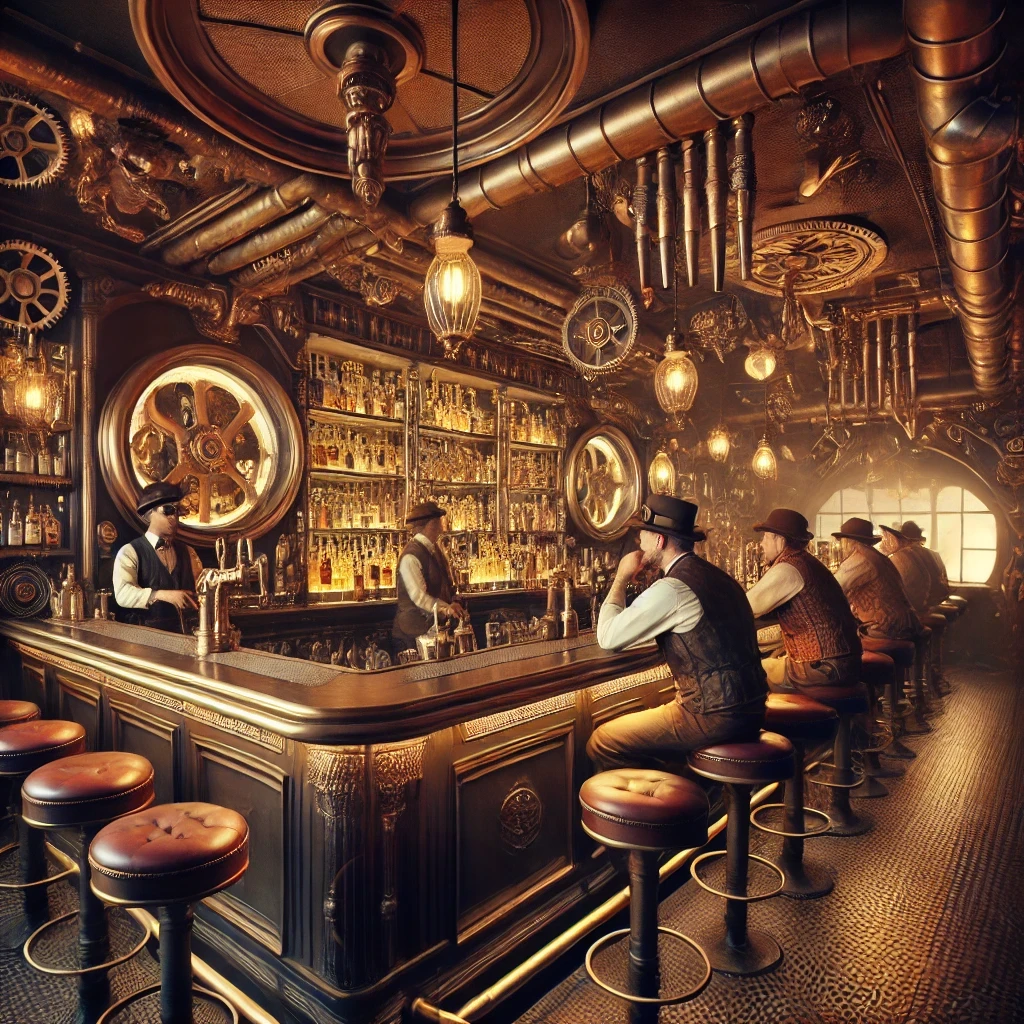
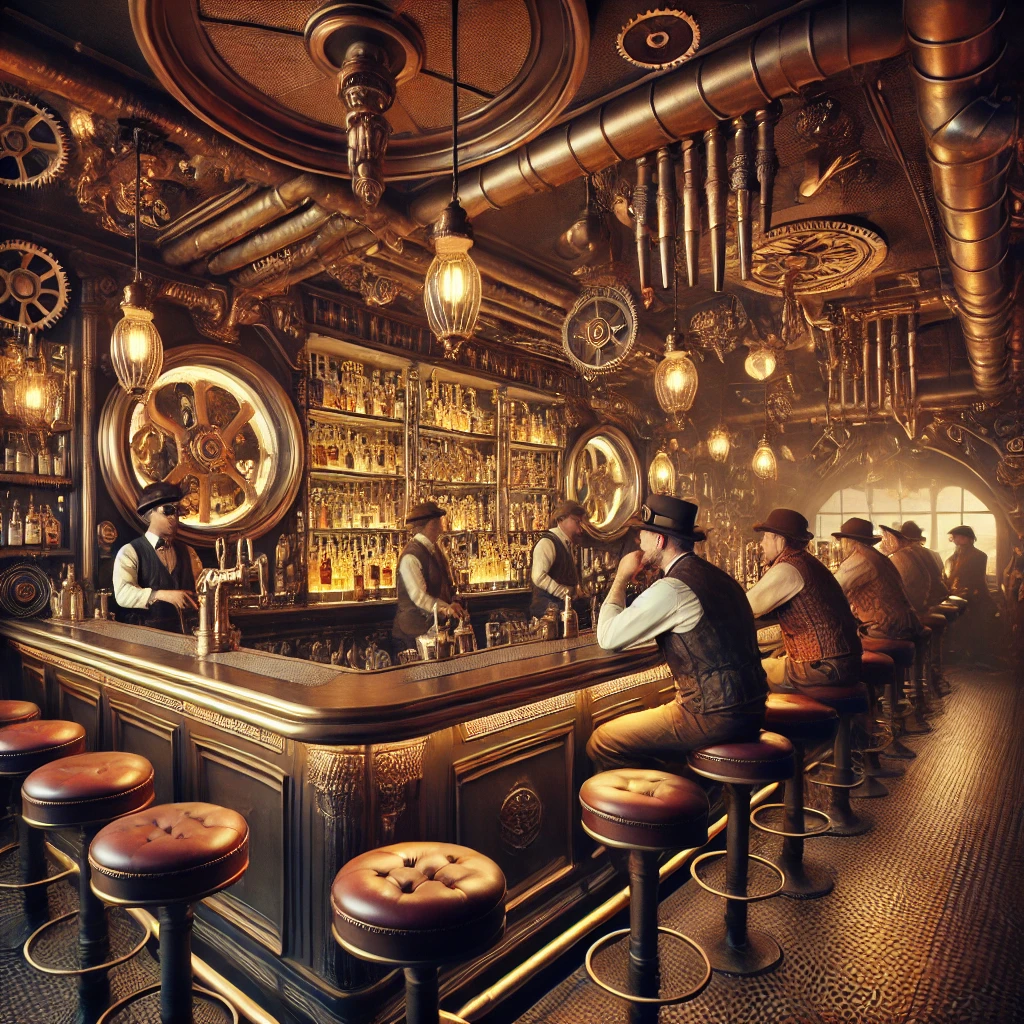
Steampunk: hint logic + Add initial hint logic ~ update config ~ change image

diff --git a/Steampunk/src/game/gameLogic.ts b/Steampunk/src/game/gameLogic.ts
@@ -1,3 +1,4 @@
+import * as utils from '@dcl-sdk/utils'
 import { ColliderLayer, GltfContainer, InputAction, Material, PBGltfContainer, pointerEventsSystem, TextShape, TextureFilterMode, TextureWrapMode, Transform, VisibilityComponent } from "@dcl/sdk/ecs"
 import { correctTargetAmount, data, steampunkGameState } from "../gameState"
 import { steampunkGameConfig } from "../gameConfig"
@@ -7,6 +8,8 @@ export class GameLogic {
     private correctSmashCounter = 0
     private playerLevel = 1
     private pictureNumber = 1
+    private differencesFound: Array<number | undefined> = []
+    private hintTimeOut: utils.TimerId = 0
 
     public async startGame() {
         this.resetProgress()
@@ -15,16 +18,19 @@ export class GameLogic {
 
     private resetProgress() {
         this.playerLevel = 1
+        this.pictureNumber - 1
         this.correctSmashCounter = 0
+        this.differencesFound = []
+        utils.timers.clearInterval(this.hintTimeOut)
     }
 
     private async playGame() {
         this.correctSmashCounter = 0
         const data = await readGltfLocators(`locators/obj_locators_unique1.gltf`)
         Material.setPbrMaterial(steampunkGameState.listOfEntity.get('firstBoard'), { texture: Material.Texture.Common({ src: `images/level${this.playerLevel}_${this.pictureNumber}.png` }) })
-        Material.setPbrMaterial(steampunkGameState.listOfEntity.get('secondBoard'), { texture: Material.Texture.Common({ src: `images/level${this.playerLevel}_${this.pictureNumber}.png` }) })
-
+        Material.setPbrMaterial(steampunkGameState.listOfEntity.get('secondBoard'), { texture: Material.Texture.Common({ src: `images/level${this.playerLevel}_${this.pictureNumber + 1}.png` }) })
         for (let i = 0; i < steampunkGameConfig.targetEntityAmount; i++) {
+            VisibilityComponent.createOrReplace(steampunkGameState.availableEntity[i], { visible: false })
             const path: PBGltfContainer = { src: `models/target${this.playerLevel}_${i + 1}/target${this.playerLevel}_${i + 1}.gltf` };
             GltfContainer.create(steampunkGameState.availableEntity[i], {
                 ...path,
@@ -32,7 +38,6 @@ export class GameLogic {
                 visibleMeshesCollisionMask: ColliderLayer.CL_POINTER
             })
             Transform.createOrReplace(steampunkGameState.availableEntity[i], { ...data.get(`target${this.playerLevel}_${i + 1}`), parent: steampunkGameState.listOfEntity.get('display') })
-            // console.log(GltfContainer.get(steampunkGameState.availableEntity[i]), Transform.get(steampunkGameState.availableEntity[i]))
             pointerEventsSystem.onPointerDown(
                 {
                     entity: steampunkGameState.availableEntity[i],
@@ -41,9 +46,10 @@ export class GameLogic {
                 () => {
                     console.log(i)
                     if (i <= correctTargetAmount[this.playerLevel]) {
+                        utils.timers.clearInterval(this.hintTimeOut)
+                        this.differencesFound[i] = i
                         pointerEventsSystem.removeOnPointerDown(steampunkGameState.availableEntity[i])
                         this.changeCounter()
-                        VisibilityComponent.createOrReplace(steampunkGameState.availableEntity[i], { visible: false })
                     }
                 }
             )
@@ -58,5 +64,26 @@ export class GameLogic {
             this.playerLevel++
             this.playGame()
         }
+    }
+
+    public getHint() {
+        let hintEntityId = undefined
+        for (let i = 0; i < correctTargetAmount[this.playerLevel]; i++) {
+            if (this.differencesFound[i] == undefined) {
+                hintEntityId = i
+                break
+            }
+        }
+        console.log(hintEntityId)
+        if (hintEntityId == undefined) return
+        let hintShowCounter = 0
+        this.hintTimeOut = utils.timers.setInterval(() => {
+            VisibilityComponent.getMutable(steampunkGameState.availableEntity[hintEntityId]).visible = !VisibilityComponent.getMutable(steampunkGameState.availableEntity[hintEntityId]).visible
+            hintShowCounter++
+            if (hintShowCounter >= steampunkGameConfig.hintShowTimes * 2) {
+                VisibilityComponent.getMutable(steampunkGameState.availableEntity[hintEntityId]).visible = false
+                utils.timers.clearInterval(this.hintTimeOut)
+            }
+        }, steampunkGameConfig.hintDelay)
     }
 }

diff --git a/Steampunk/src/game/game.ts b/Steampunk/src/game/game.ts
@@ -1,8 +1,7 @@
 import * as utils from '@dcl-sdk/utils'
 import { sceneParentEntity, ui } from "@dcl-sdk/mini-games/src"
+import { gameLogic } from '..'
 import { readGltfLocators } from '../../../common/locators'
-import { Quaternion, Vector3 } from '@dcl/sdk/math'
-import { runCountdown } from '../../../common/effects'
 
 let timer: ui.Timer3D
 let playButton: ui.MenuButton
@@ -10,6 +9,8 @@ let startTimeOut: utils.TimerId
 
 export const initGame = async () => {
     console.log('INIT GAME')
+
+    spawnButton()
 
     await initCountdownNumbers()
 }
@@ -20,7 +21,22 @@ export function getReadyToStart() {
     startGame()
 }
 
-async function startGame() {}
+async function startGame() { }
+
+const spawnButton = async () => {
+    const data = await readGltfLocators(`locators/obj_locators_unique1.gltf`)
+    playButton = new ui.MenuButton(
+        { ...data.get("Counter")!, parent: sceneParentEntity },
+        ui.uiAssets.shapes.SQUARE_GREEN,
+        ui.uiAssets.icons.play,
+        `PLAY`,
+        () => {
+            gameLogic.getHint()
+        },
+        false,
+        500
+    )
+}
 
 async function initCountdownNumbers() {
     // const data = await readGltfLocators(`locators/obj_locators_unique.gltf`)

diff --git a/Steampunk/src/index.ts b/Steampunk/src/index.ts
@@ -5,8 +5,8 @@ import { TIME_LEVEL_MOVES } from '@dcl-sdk/mini-games/src/ui'
 import { readGltfLocators } from '../../common/locators'
 import { initMiniGame } from '../../common/library'
 import { STEAMPUNK_SYNC_ID, steampunkGameConfig } from './gameConfig'
-import { data, steampunkGameState } from './gameState'
-import { syncEntity, parentEntity } from '@dcl/sdk/network'
+import {  steampunkGameState } from './gameState'
+import { syncEntity } from '@dcl/sdk/network'
 import { GameLogic } from './game/gameLogic'
 import { setupStaticModels } from './staticModels/setupStaticModels'
 import { getReadyToStart, initGame } from './game/game'
@@ -34,6 +34,7 @@ executeTask(async () => {
     }
 })
 
+export let gameLogic = new GameLogic()
 
 export async function main() {
     await libraryReady
@@ -44,9 +45,7 @@ export async function main() {
 
     initGame()
 
-    let game = new GameLogic()
-
-    game.startGame()
+    gameLogic.startGame()
 }
 
 const generateInitialEntity = async () => {

diff --git a/Steampunk/src/gameConfig.ts b/Steampunk/src/gameConfig.ts
@@ -1,6 +1,8 @@
 export const steampunkGameConfig = {
     initialEntityAmount: 30,
     targetEntityAmount: 20,
+    hintShowTimes: 5,
+    hintDelay: 1000
 }
 
 export const STEAMPUNK_SYNC_ID = 3000
